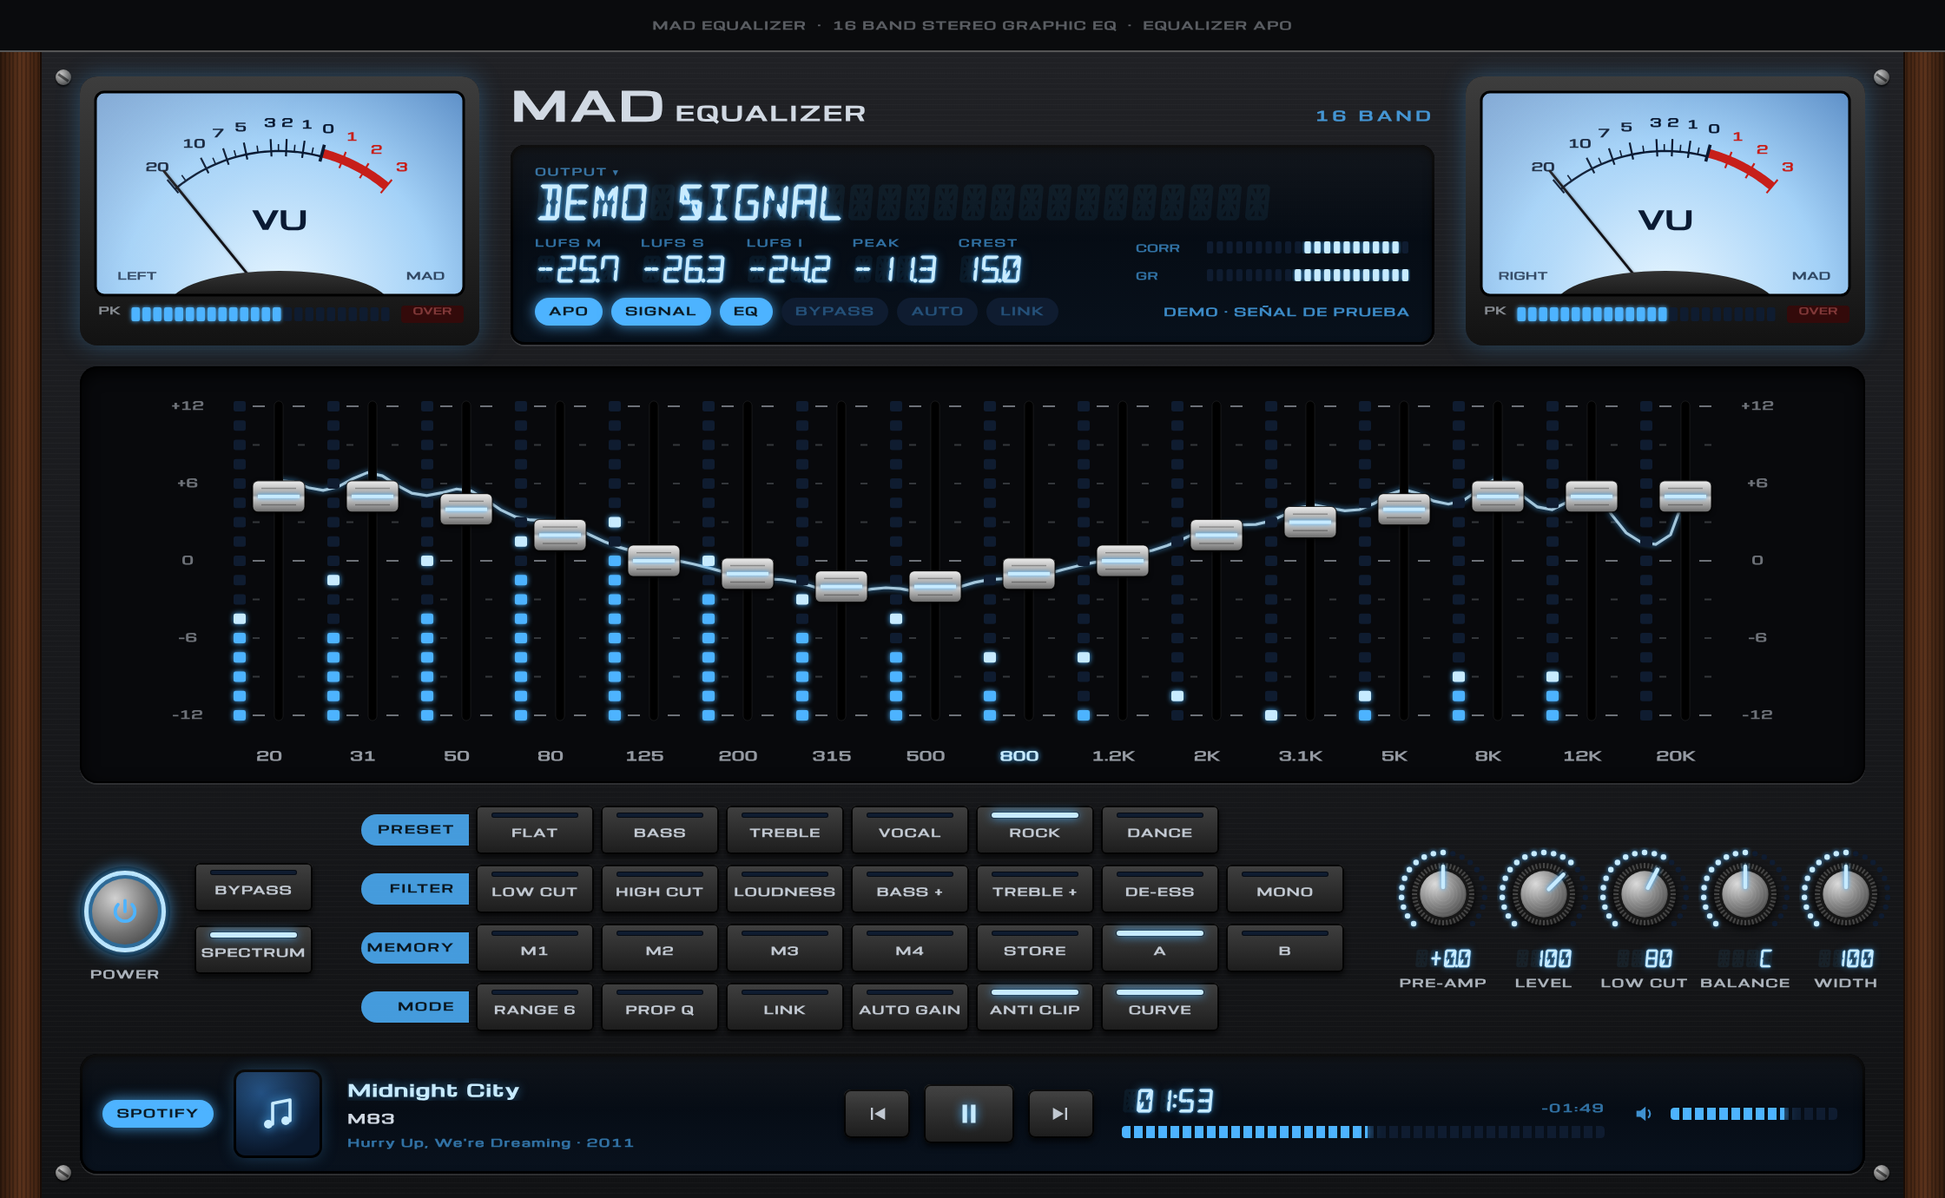
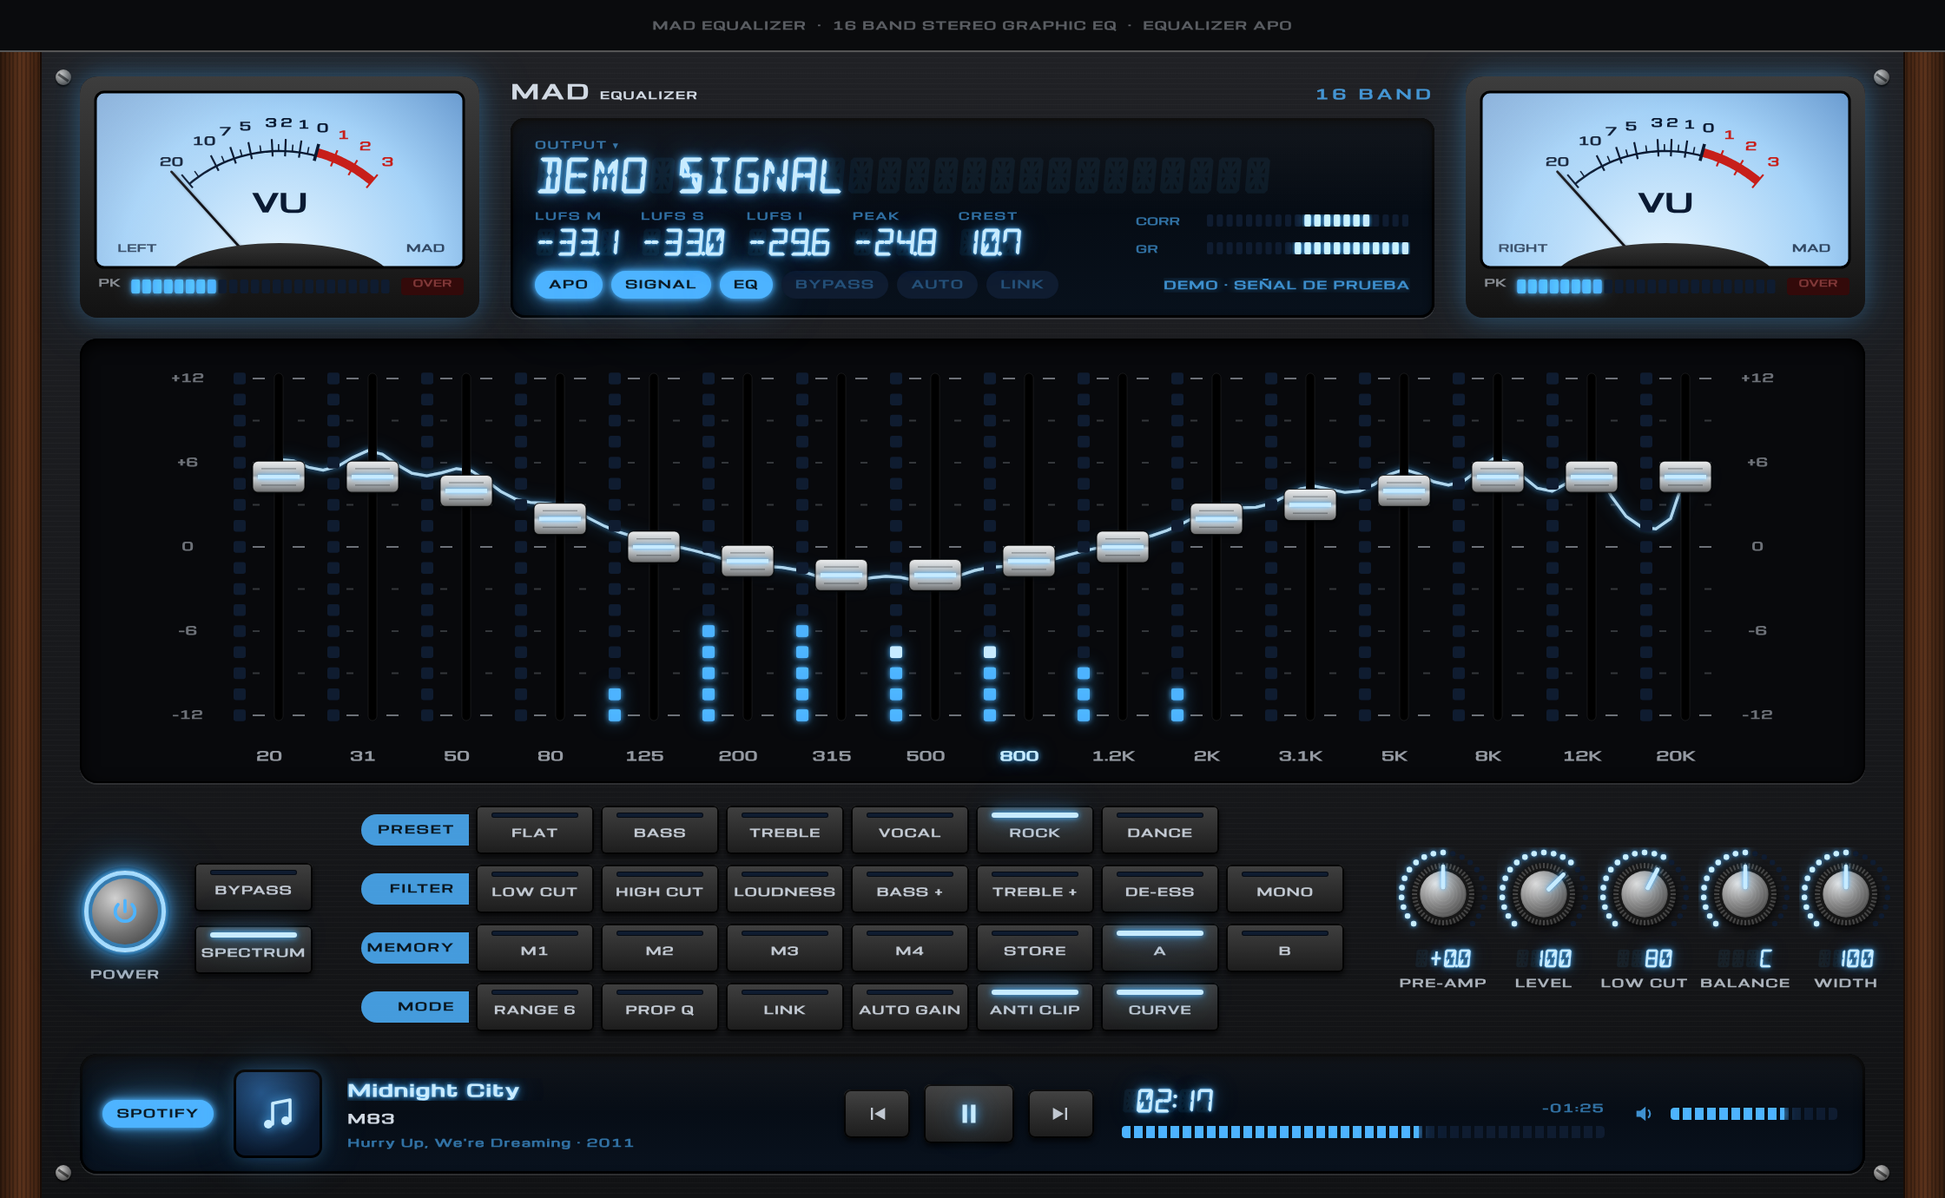
feat: bloom en todo lo que emite luz y título a la mitad de tamaño
- Bloom (núcleo + halos cada vez más anchos y tenues) en LED de botones, lámparas, displays de segmentos, barras de progreso/volumen, encendido, reproductor y bisel de los VU; en los canvas el halo suma luz (lighter) bajo el núcleo.
- Título MAD EQUALIZER reducido a la mitad; los VU y los faders absorben los 16 px liberados.

Claude-Session: https://claude.ai/code/session_017Z7sUdS3c7HCSuU7CJC8Vt

diff --git a/windows/renderer/style.css b/windows/renderer/style.css
@@ -2,6 +2,9 @@
 @font-face { font-family: DSEG14; src: url(fonts/DSEG14Classic-Italic.ttf); }
 
 :root {
+  /* Bloom: núcleo + tres halos cada vez más anchos y tenues */
+  --bloom-box: 0 0 3px var(--led), 0 0 9px rgba(77,179,255,0.75), 0 0 22px rgba(77,179,255,0.45), 0 0 44px rgba(77,179,255,0.22);
+  --bloom-text: 0 0 2px var(--led), 0 0 6px rgba(77,179,255,0.8), 0 0 14px rgba(77,179,255,0.5), 0 0 28px rgba(77,179,255,0.25);
   --led: rgb(77,179,255);
   --led-core: rgb(199,235,255);
   --led-off: rgb(15,28,48);
@@ -42,11 +45,11 @@ button { font: inherit; color: inherit; background: none; border: 0; padding: 0;
 
 /* Cabecera */
 header { display: flex; gap: 18px; align-items: flex-start; }
-canvas.meter { width: 230px; height: 159px; border-radius: 10px; box-shadow: 0 0 14px rgba(77,179,255,0.3); flex: none; }
+canvas.meter { width: 230px; height: 159px; border-radius: 10px; box-shadow: 0 0 14px rgba(77,179,255,0.3), 0 0 36px rgba(77,179,255,0.16); flex: none; }
 .center { flex: 1; display: flex; flex-direction: column; gap: 8px; min-width: 0; }
 .brand { display: flex; align-items: baseline; gap: 5px; }
-.brand .logo { font-size: 22.2px; letter-spacing: 1px; color: var(--silk); }
-.brand .sub { font-size: 11.1px; letter-spacing: 1px; color: var(--silk); } /* la mitad que MAD */
+.brand .logo { font-size: 11.1px; letter-spacing: 1px; color: var(--silk); }
+.brand .sub { font-size: 5.6px; letter-spacing: 0.6px; color: var(--silk); } /* la mitad que MAD */
 .brand .bands { font-size: 7.4px; letter-spacing: 2px; color: rgba(77,179,255,0.8); }
 
 .display { position: relative; padding: 11px 14px; border-radius: 8px; display: flex; flex-direction: column; gap: 9px;
@@ -65,7 +68,7 @@ canvas.meter { width: 230px; height: 159px; border-radius: 10px; box-shadow: 0 0
 .seg { position: relative; display: inline-block; font-family: DSEG14; white-space: pre; line-height: 1; }
 .seg .ghost { color: rgba(77,179,255,0.07); }
 .seg .lit { position: absolute; top: 0; right: 0; color: var(--led-core);
-  text-shadow: 0 0 2.5px var(--led), 0 0 8px rgba(77,179,255,0.55); }
+  text-shadow: var(--bloom-text); }
 .seg[data-lead] .lit { left: 0; right: auto; }
 
 .bars { display: flex; flex-direction: column; gap: 8px; padding-top: 3px; }
@@ -75,13 +78,13 @@ canvas.meter { width: 230px; height: 159px; border-radius: 10px; box-shadow: 0 0
 
 .lamp { font-size: 6.1px; letter-spacing: 0.6px; padding: 0 8px; height: 16px; line-height: 16px; border-radius: 8px;
   color: rgba(77,179,255,0.35); background: var(--led-off); white-space: nowrap; }
-.lamp.on { color: rgba(0,0,0,0.85); background: var(--led); box-shadow: 0 0 8px rgba(77,179,255,0.8); }
-.status { font-size: 6.1px; letter-spacing: 0.5px; color: rgba(77,179,255,0.75); white-space: nowrap; overflow: hidden; text-overflow: ellipsis; }
+.lamp.on { color: rgba(0,0,0,0.85); background: var(--led); box-shadow: var(--bloom-box); }
+.status { text-shadow: 0 0 6px rgba(77,179,255,0.55); font-size: 6.1px; letter-spacing: 0.5px; color: rgba(77,179,255,0.75); white-space: nowrap; overflow: hidden; text-overflow: ellipsis; }
 
 /* Faders */
 .well { border-radius: 10px; background: rgb(8,9,12); padding: 0 0 4px;
   box-shadow: inset 0 3px 10px #000, inset 0 0 0 1px rgba(0,0,0,0.8), 0 1px 0 rgba(255,255,255,0.1); }
-#faders { display: block; width: 1028px; height: 236px; }
+#faders { display: block; width: 1028px; height: 252px; }
 
 /* Controles */
 .controls { display: flex; align-items: center; gap: 14px; height: 134px; }
@@ -91,8 +94,8 @@ canvas.meter { width: 230px; height: 159px; border-radius: 10px; box-shadow: 0 0
 #power .cap { position: absolute; inset: 7px; border-radius: 50%; display: flex; align-items: center; justify-content: center;
   background: radial-gradient(circle at 35% 30%, rgb(209,209,209), rgb(115,115,115) 55%, rgb(56,56,56)); color: rgba(0,0,0,0.55); }
 #power svg { width: 17px; height: 17px; }
-#power.on .ring { border-color: var(--led-core); box-shadow: 0 0 10px var(--led), inset 0 0 6px var(--led); }
-#power.on .cap { color: var(--led); filter: drop-shadow(0 0 3px var(--led)); }
+#power.on .ring { border-color: var(--led-core); box-shadow: var(--bloom-box), inset 0 0 6px var(--led); }
+#power.on .cap { color: var(--led); filter: drop-shadow(0 0 3px var(--led)) drop-shadow(0 0 9px rgba(77,179,255,0.6)); }
 #power:active .cap { transform: translateY(1px); }
 
 .col { display: flex; flex-direction: column; gap: 8px; }
@@ -112,7 +115,7 @@ canvas.meter { width: 230px; height: 159px; border-radius: 10px; box-shadow: 0 0
 .key button::before { content: ''; position: absolute; top: 4px; left: 9px; right: 9px; height: 3px; border-radius: 1.5px;
   background: var(--led-off); box-shadow: inset 0 0 0 0.5px rgba(0,0,0,0.6); }
 .key button.dim::before { background: rgba(77,179,255,0.35); }
-.key button.on::before { background: var(--led-core); box-shadow: 0 0 6px var(--led), 0 0 0 0.5px rgba(0,0,0,0.6); }
+.key button.on::before { background: var(--led-core); box-shadow: var(--bloom-box); }
 .key button.blink::before { animation: blink 0.6s steps(1) infinite; }
 @keyframes blink { 50% { background: var(--led-off); box-shadow: none; } }
 .key button:active { transform: translateY(1px); background: linear-gradient(180deg, rgb(23,23,23), rgb(38,38,38));
@@ -132,10 +135,10 @@ canvas.meter { width: 230px; height: 159px; border-radius: 10px; box-shadow: 0 0
   background: linear-gradient(180deg, rgba(255,255,255,0.05), transparent 50%); }
 .player .src { width: 58px; display: flex; flex-direction: column; align-items: center; gap: 5px; }
 .player .art { width: 48px; height: 48px; border-radius: 5px; display: flex; align-items: center; justify-content: center; color: var(--led-core);
-  background: radial-gradient(circle at 30% 25%, rgb(32,78,128), rgb(10,24,44) 70%); box-shadow: 0 0 0 1.5px #000, 0 0 10px rgba(77,179,255,0.35); }
-.player .art svg { width: 24px; height: 24px; filter: drop-shadow(0 0 3px var(--led)); }
+  background: radial-gradient(circle at 30% 25%, rgb(32,78,128), rgb(10,24,44) 70%); box-shadow: 0 0 0 1.5px #000, 0 0 10px rgba(77,179,255,0.35), 0 0 28px rgba(77,179,255,0.2); }
+.player .art svg { width: 24px; height: 24px; filter: drop-shadow(0 0 3px var(--led)) drop-shadow(0 0 9px rgba(77,179,255,0.6)); }
 .player .tags { width: 270px; display: flex; flex-direction: column; gap: 5px; min-width: 0; }
-.player .t-title { font-size: 9.2px; letter-spacing: 0.4px; color: var(--led-core); text-shadow: 0 0 6px rgba(77,179,255,0.55); white-space: nowrap; overflow: hidden; text-overflow: ellipsis; }
+.player .t-title { font-size: 9.2px; letter-spacing: 0.4px; color: var(--led-core); text-shadow: var(--bloom-text); white-space: nowrap; overflow: hidden; text-overflow: ellipsis; }
 .player .t-artist { font-size: 7.1px; letter-spacing: 0.6px; color: var(--silk); white-space: nowrap; }
 .player .t-album { font-size: 6.0px; letter-spacing: 0.5px; color: rgba(77,179,255,0.6); white-space: nowrap; overflow: hidden; text-overflow: ellipsis; }
 .transport { display: flex; align-items: center; gap: 8px; }
@@ -144,14 +147,14 @@ canvas.meter { width: 230px; height: 159px; border-radius: 10px; box-shadow: 0 0
   box-shadow: inset 0 0 0 1px rgba(0,0,0,0.9), inset 0 2px 0 -1px rgba(255,255,255,0.13), 0 2px 3px rgba(0,0,0,0.65); }
 .tbtn svg { width: 14px; height: 14px; }
 .tbtn.big { width: 52px; height: 34px; color: var(--led-core); }
-.tbtn.big svg { width: 18px; height: 18px; filter: drop-shadow(0 0 3px var(--led)); }
+.tbtn.big svg { width: 18px; height: 18px; filter: drop-shadow(0 0 3px var(--led)) drop-shadow(0 0 9px rgba(77,179,255,0.6)); }
 .progress { flex: 1; display: flex; flex-direction: column; gap: 6px; min-width: 0; }
 .times { display: flex; justify-content: space-between; align-items: baseline; }
-.seg.tm { font-size: 14.9px; color: var(--led-core); text-shadow: 0 0 2.5px var(--led), 0 0 8px rgba(77,179,255,0.55); }
+.seg.tm { font-size: 14.9px; color: var(--led-core); text-shadow: var(--bloom-text); }
 .dur { font-size: 6.1px; color: rgba(77,179,255,0.6); letter-spacing: 0.6px; }
 .pbar, .vbar { height: 7px; border-radius: 2px; background: var(--led-off); position: relative; overflow: hidden;
   -webkit-mask-image: repeating-linear-gradient(90deg, #000 0 5px, transparent 5px 7px); }
-.pbar i, .vbar i { position: absolute; left: 0; top: 0; bottom: 0; background: var(--led); box-shadow: 0 0 8px var(--led); }
+.pbar i, .vbar i { position: absolute; left: 0; top: 0; bottom: 0; background: var(--led); box-shadow: 0 0 6px var(--led), 0 0 16px rgba(77,179,255,0.55), 0 0 32px rgba(77,179,255,0.25); }
 .vol { width: 118px; display: flex; align-items: center; gap: 8px; color: rgba(77,179,255,0.8); }
 .vol svg { width: 14px; height: 14px; flex: none; }
 .vol .vbar { flex: 1; }

diff --git a/macos/UI.swift b/macos/UI.swift
@@ -44,10 +44,28 @@ final class DragStart: ObservableObject {
 
 /// Brillo de LED: núcleo claro con halo azul.
 extension GraphicsContext {
+    /// Bloom: halo ancho y tenue más el brillo cercano del LED.
     func glow(_ path: Path, _ color: Color = Palette.ledCore, halo: Color = Palette.led, radius: CGFloat = 4) {
+        drawLayer { l in
+            l.addFilter(.shadow(color: halo.opacity(0.5), radius: radius * 3.4))
+            l.fill(path, with: .color(color))
+        }
         drawLayer { l in
             l.addFilter(.shadow(color: halo, radius: radius))
             l.fill(path, with: .color(color))
+        }
+    }
+}
+
+extension View {
+    /// Bloom de LED: núcleo + tres halos cada vez más anchos y tenues.
+    @ViewBuilder func bloom(_ color: Color = Palette.led, radius: CGFloat = 4, on: Bool = true) -> some View {
+        if on {
+            self.shadow(color: color, radius: radius)
+                .shadow(color: color.opacity(0.6), radius: radius * 2.6)
+                .shadow(color: color.opacity(0.3), radius: radius * 5.5)
+        } else {
+            self
         }
     }
 }
@@ -79,8 +97,7 @@ struct SegText: View {
             Text(String(repeating: "~", count: cells)).foregroundStyle(Palette.led.opacity(0.07))
             Text(leading ? text + pad : pad + text)
                 .foregroundStyle(Palette.ledCore)
-                .shadow(color: Palette.led, radius: size * 0.12)
-                .shadow(color: Palette.led.opacity(0.55), radius: size * 0.4)
+                .bloom(Palette.led, radius: size * 0.1)
         }
         .font(.seg(size))
         .fixedSize()
@@ -115,7 +132,7 @@ struct Lamp: View {
             .foregroundStyle(on ? Color.black.opacity(0.85) : Palette.led.opacity(0.35))
             .padding(.horizontal, 8).frame(height: 16)
             .background(Capsule().fill(on ? Palette.led : Palette.ledOff))
-            .shadow(color: on ? Palette.led.opacity(0.8) : .clear, radius: 5)
+            .bloom(Palette.led, radius: 4, on: on)
             .fixedSize()
     }
 }
@@ -388,6 +405,7 @@ struct VUMeter: View {
                      at: CGPoint(x: overRect.midX, y: overRect.midY))
         }
         .shadow(color: Palette.led.opacity(0.3), radius: 14)
+        .shadow(color: Palette.led.opacity(0.16), radius: 36)
     }
 }
 
@@ -490,7 +508,7 @@ struct FaderCap: View {
                 Rectangle().fill(Color.black.opacity(0.3)).frame(height: 0.7)
             }.padding(.horizontal, 5)
             Rectangle().fill(Palette.ledCore).frame(height: 2).padding(.horizontal, 3)
-                .shadow(color: Palette.led, radius: 3)
+                .bloom(Palette.led, radius: 3)
         }
         .shadow(color: .black.opacity(0.75), radius: 2.5, y: 2.5)
     }
@@ -561,7 +579,7 @@ struct BandColumn: View {
     let label: String
     let selected: Bool
     let onTouch: () -> Void
-    static let height: CGFloat = 196
+    static let height: CGFloat = 212
     static let width: CGFloat = 46
     static let spacing: CGFloat = 8
     /// Centro de la perilla dentro de la columna (LEDs 7 + 4 de separación + medio fader).
@@ -577,7 +595,7 @@ struct BandColumn: View {
             .frame(height: Self.height)
             Text(label).font(.wide(11))
                 .foregroundStyle(selected ? Palette.ledCore : Palette.silk.opacity(0.7))
-                .shadow(color: selected ? Palette.led : .clear, radius: 4)
+                .bloom(Palette.led, radius: 4, on: selected)
         }
         .frame(width: Self.width)
     }
@@ -736,7 +754,7 @@ struct KeyStyle: ButtonStyle {
                 RoundedRectangle(cornerRadius: 1.5)
                     .fill(on ? Palette.ledCore : dim ? Palette.led.opacity(0.35) : Palette.ledOff)
                     .overlay(RoundedRectangle(cornerRadius: 1.5).stroke(Color.black.opacity(0.6), lineWidth: 0.5))
-                    .shadow(color: on ? Palette.led : .clear, radius: 4)
+                    .bloom(Palette.led, radius: 3, on: on)
                     .frame(height: 3)
                     .padding(.horizontal, 9)
                     .padding(.top, 4)
@@ -795,13 +813,13 @@ struct PowerButton: View {
                     Circle().fill(Color.black).frame(width: 52, height: 52)
                     Circle().stroke(on ? Palette.ledCore : Palette.ledOff, lineWidth: 2.5)
                         .frame(width: 47, height: 47)
-                        .shadow(color: on ? Palette.led : .clear, radius: 6)
+                        .bloom(Palette.led, radius: 5, on: on)
                     Circle().fill(RadialGradient(colors: [Color(white: 0.82), Color(white: 0.45), Color(white: 0.22)],
                                                  center: UnitPoint(x: 0.35, y: 0.3), startRadius: 0, endRadius: 30))
                         .frame(width: 38, height: 38)
                     Image(systemName: "power").font(.system(size: 15, weight: .bold))
                         .foregroundStyle(on ? Palette.led : Color.black.opacity(0.55))
-                        .shadow(color: on ? Palette.led : .clear, radius: 4)
+                        .bloom(Palette.led, radius: 3, on: on)
                 }
             }
             .buttonStyle(.plain)
@@ -888,16 +906,16 @@ struct PlayerBar: View {
                                          center: UnitPoint(x: 0.3, y: 0.25), startRadius: 0, endRadius: 40))
                 Image(systemName: "music.note").font(.system(size: 22, weight: .bold))
                     .foregroundStyle(Palette.ledCore)
-                    .shadow(color: Palette.led, radius: 3)
+                    .bloom(Palette.led, radius: 3)
             }
             .frame(width: 48, height: 48)
             .overlay(RoundedRectangle(cornerRadius: 5).stroke(Color.black, lineWidth: 1.5))
-            .shadow(color: Palette.led.opacity(0.35), radius: 8)
+            .bloom(Palette.led.opacity(0.7), radius: 5)
             .opacity(i == nil ? 0.35 : 1)
 
             VStack(alignment: .leading, spacing: 5) {
                 Text(i?.title ?? "Sin reproductor").font(.wide(15)).tracking(0.4)
-                    .foregroundStyle(Palette.ledCore).shadow(color: Palette.led.opacity(0.55), radius: 4)
+                    .foregroundStyle(Palette.ledCore).bloom(Palette.led, radius: 3)
                 Text(i?.artist ?? "Abre Spotify, Apple Music, YouTube Music, VLC…").font(.wide(11.5)).tracking(0.6)
                     .foregroundStyle(Palette.silk)
                 Text(i?.album ?? "Los controles y las etiquetas aparecerán aquí").font(.wide(10)).tracking(0.5)
@@ -982,7 +1000,7 @@ struct TransportStyle: ButtonStyle {
         return configuration.label
             .font(.system(size: accent ? 16 : 12, weight: .bold))
             .foregroundStyle(accent ? Palette.ledCore : Palette.silk.opacity(0.9))
-            .shadow(color: accent ? Palette.led : .clear, radius: 3)
+            .bloom(Palette.led, radius: 3, on: accent)
             .frame(width: width, height: height)
             .background(RoundedRectangle(cornerRadius: 4)
                 .fill(LinearGradient(colors: p ? [Color(white: 0.09), Color(white: 0.15)] : [Color(white: 0.25), Color(white: 0.11)],
@@ -1004,7 +1022,7 @@ struct RootView: View {
     @StateObject private var eq = EQModel()
     @StateObject private var meters = MeterModel()
     @StateObject private var player = NowPlaying()
-    @State private var vuHeight: CGFloat = 153
+    @State private var vuHeight: CGFloat = 137
     static let size = CGSize(width: 1120, height: 660)
     /// Franja superior de la ventana (zona de la barra de título oculta): lleva la serigrafía.
     static let strip: CGFloat = 28
@@ -1066,8 +1084,8 @@ struct RootView: View {
             VUMeterView(meters: meters, left: true).frame(width: 230, height: vuHeight)
             VStack(alignment: .leading, spacing: 8) {
                 HStack(alignment: .firstTextBaseline, spacing: 5) {
-                    Text("MAD").font(.wide(36)).tracking(1).foregroundStyle(Palette.silk)
-                    Text("EQUALIZER").font(.wide(18)).tracking(1).foregroundStyle(Palette.silk)
+                    Text("MAD").font(.wide(18)).tracking(1).foregroundStyle(Palette.silk)
+                    Text("EQUALIZER").font(.wide(9)).tracking(0.6).foregroundStyle(Palette.silk)
                     Spacer()
                     Text("16 BAND").font(.wide(12)).tracking(2).foregroundStyle(Palette.led.opacity(0.8))
                 }

diff --git a/windows/renderer/app.js b/windows/renderer/app.js
@@ -219,7 +219,7 @@ function buildKnobs() {
 // ---------------------------------------------------------------------------------------------
 // Faders: arrastrar la perilla la mueve en relativo; tocar el riel salta a ese punto
 
-const WELL_W = 1028, WELL_H = 236;
+const WELL_W = 1028, WELL_H = 252;
 function buildFaders() {
   const c = $('faders');
   const geo = G.wellGeometry(WELL_W);
@@ -320,7 +320,8 @@ function setSeg(el, text) {
   if (!el.firstChild) {
     el.style.fontSize = size + 'px';
     el.innerHTML = `<span class="ghost">${'~'.repeat(cells)}</span><span class="lit"></span>`;
-    el.querySelector('.lit').style.textShadow = `0 0 ${size * 0.12}px var(--led), 0 0 ${size * 0.4}px rgba(77,179,255,0.55)`;
+    // Bloom: núcleo + halos cada vez más anchos, escalados con el tamaño de la celda
+    el.querySelector('.lit').style.textShadow = `0 0 ${size * 0.1}px var(--led), 0 0 ${size * 0.3}px rgba(77,179,255,0.8), 0 0 ${size * 0.7}px rgba(77,179,255,0.5), 0 0 ${size * 1.4}px rgba(77,179,255,0.25)`;
   }
   const visible = text.replace(/\./g, '').length;
   const pad = '!'.repeat(Math.max(0, cells - visible));

diff --git a/windows/renderer/draw.js b/windows/renderer/draw.js
@@ -24,7 +24,10 @@ export function setup(canvas, w, h) {
 
 function rr(ctx, x, y, w, h, r) { ctx.beginPath(); ctx.roundRect(x, y, w, h, r); }
 
+/** Bloom: halo ancho y suave que suma luz sobre el fondo, más el núcleo brillante del LED. */
 function glow(ctx, color, blur, fn) {
+  ctx.save(); ctx.globalCompositeOperation = 'lighter'; ctx.globalAlpha = 0.55;
+  ctx.shadowColor = color; ctx.shadowBlur = blur * 3.4; fn(); ctx.restore();
   ctx.save(); ctx.shadowColor = color; ctx.shadowBlur = blur; fn(); ctx.restore();
 }
 
@@ -117,7 +120,7 @@ export function drawVU(canvas, w, h, { position, channel, peak, over }) {
 // Faders: geometría compartida con el manejo del ratón en app.js
 
 export const WELL = {
-  top: 14, colH: 196, colW: 46, gap: 8, scaleW: 32, cap: { w: 30, h: 18 },
+  top: 14, colH: 212, colW: 46, gap: 8, scaleW: 32, cap: { w: 30, h: 18 },
   get usable() { return this.colH - this.cap.h; },
   get innerW() { return this.scaleW * 2 + 16 * this.colW + 17 * this.gap; },
 };
